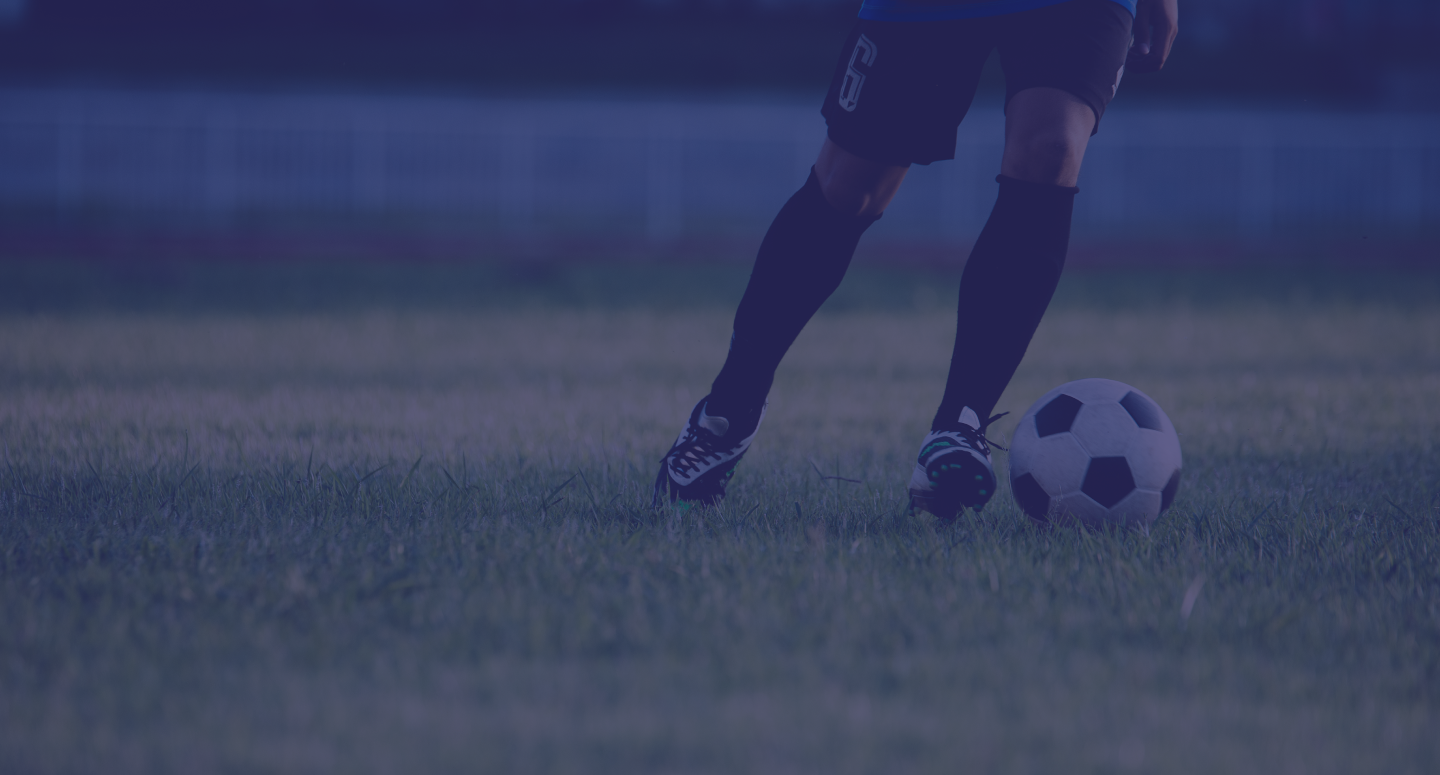
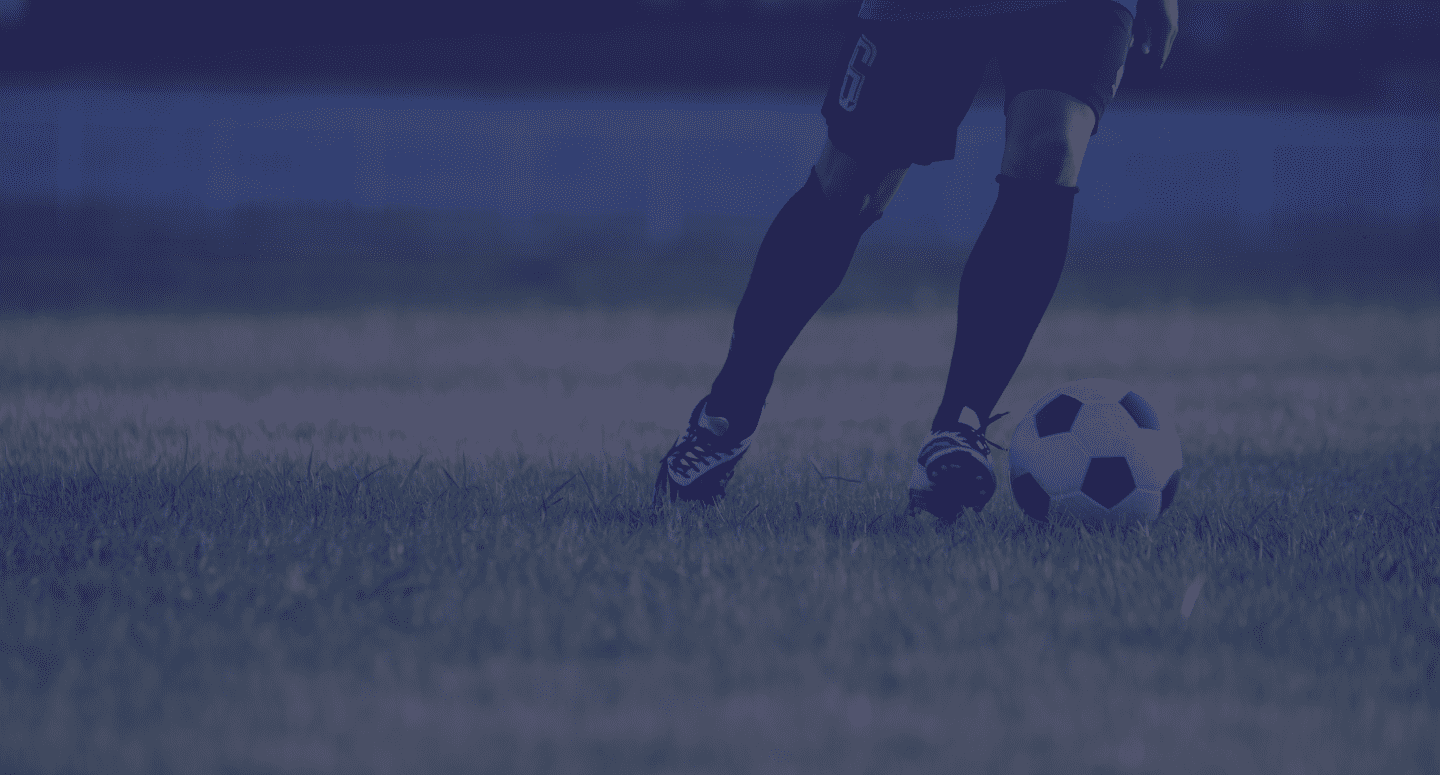
atualizando formulario, compactando tamanho da imagem da hero

diff --git a/wp-content/themes/futebol-uff/assets/css/style.scss b/wp-content/themes/futebol-uff/assets/css/style.scss
@@ -627,6 +627,53 @@ footer{
         left: calc(50% + 38px);
         bottom: 44px;
     }
+    .wpcf7-radio {
+        display: flex;
+        .wpcf7-list-item {
+            display: flex;
+            flex-direction: row-reverse;
+            align-items: center;
+            margin: 0px;
+            &.last {
+                margin-left: 12px;
+            }
+            input {
+                width: 20px;
+                height: 20px;
+                margin-right: 8px;
+                border: none;
+                position: relative;
+                &::before, &::after {
+                    content: '';
+                    position: absolute;
+                    border-radius: 50%;
+                    background-color: $white;
+                    cursor: pointer;
+                }
+                &::before {
+                    height: 22px;
+                    width: 22px;
+                    left: -1px;
+                    top: -1px;
+                }
+                &::after {
+                    height: 14px;
+                    width: 14px;
+                    top: 50%;
+                    left: 50%;
+                    transform: translate(-50%, -50%);
+                    transition: 0.4s;
+                }
+                &:checked {
+                    &::after {
+                        background-color: $brand-yellow;
+                        transition: 0.4s;
+                    }
+                }
+            }
+        }
+
+    }
 }
 
 @media(max-width: 991px){

diff --git a/wp-content/themes/futebol-uff/assets/css/style.css b/wp-content/themes/futebol-uff/assets/css/style.css
@@ -824,6 +824,50 @@ footer .footer-container h3 {
   left: calc(50% + 38px);
   bottom: 44px;
 }
+.contact .wpcf7-radio {
+  display: flex;
+}
+.contact .wpcf7-radio .wpcf7-list-item {
+  display: flex;
+  flex-direction: row-reverse;
+  align-items: center;
+  margin: 0px;
+}
+.contact .wpcf7-radio .wpcf7-list-item.last {
+  margin-left: 12px;
+}
+.contact .wpcf7-radio .wpcf7-list-item input {
+  width: 20px;
+  height: 20px;
+  margin-right: 8px;
+  border: none;
+  position: relative;
+}
+.contact .wpcf7-radio .wpcf7-list-item input::before, .contact .wpcf7-radio .wpcf7-list-item input::after {
+  content: "";
+  position: absolute;
+  border-radius: 50%;
+  background-color: #FFFFFF;
+  cursor: pointer;
+}
+.contact .wpcf7-radio .wpcf7-list-item input::before {
+  height: 22px;
+  width: 22px;
+  left: -1px;
+  top: -1px;
+}
+.contact .wpcf7-radio .wpcf7-list-item input::after {
+  height: 14px;
+  width: 14px;
+  top: 50%;
+  left: 50%;
+  transform: translate(-50%, -50%);
+  transition: 0.4s;
+}
+.contact .wpcf7-radio .wpcf7-list-item input:checked::after {
+  background-color: #FFC44A;
+  transition: 0.4s;
+}
 
 @media (max-width: 991px) {
   header .container .header-container .nav-container nav {
